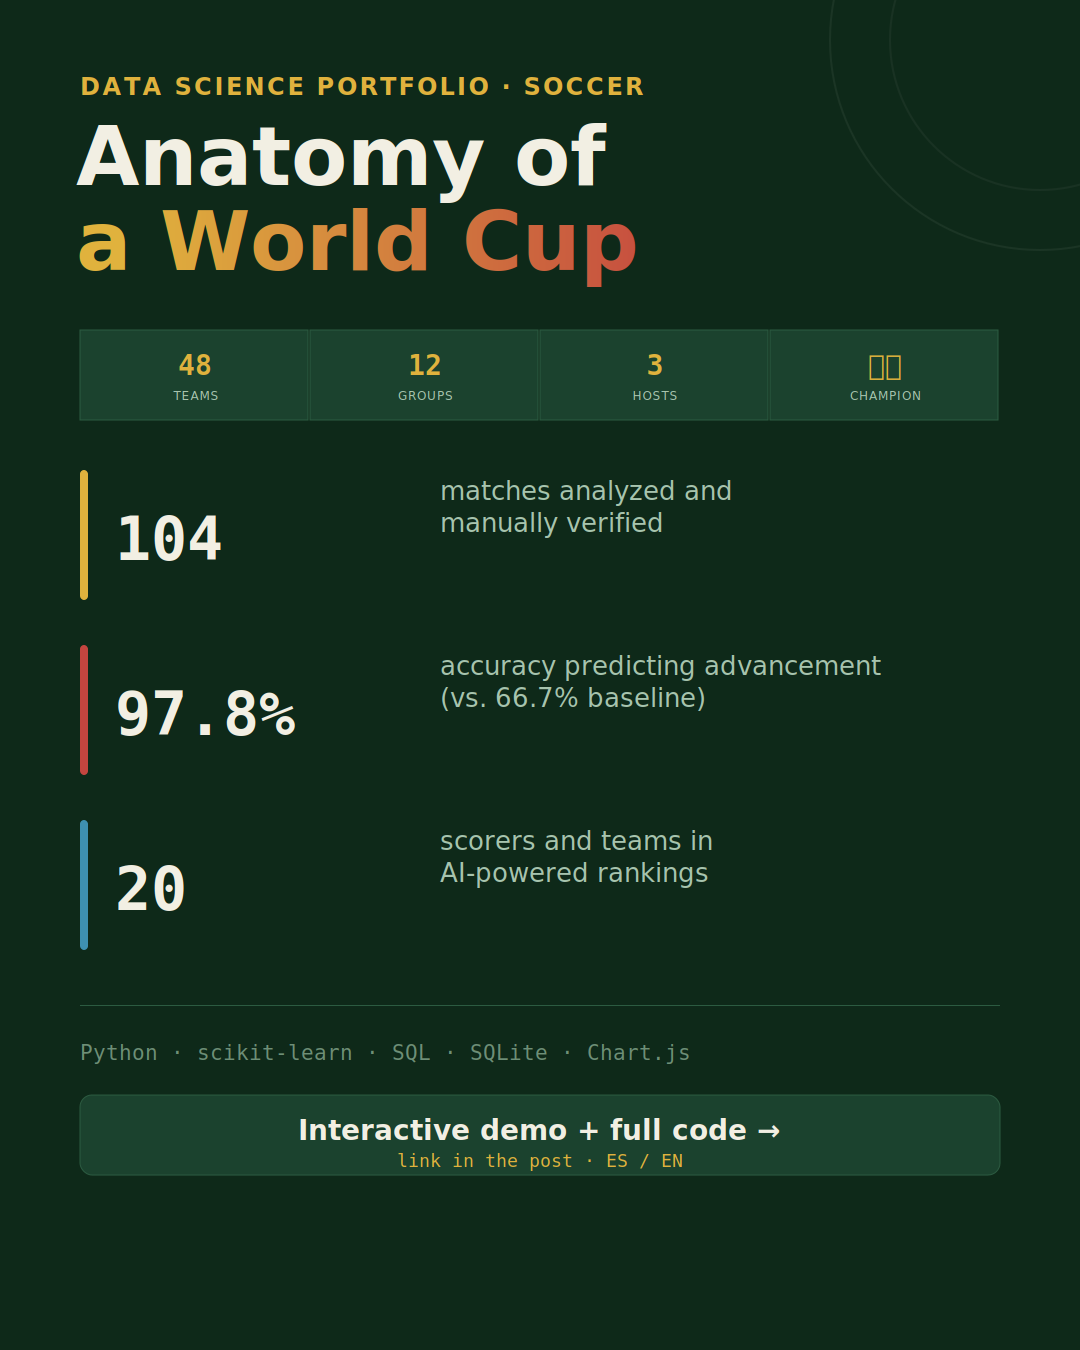
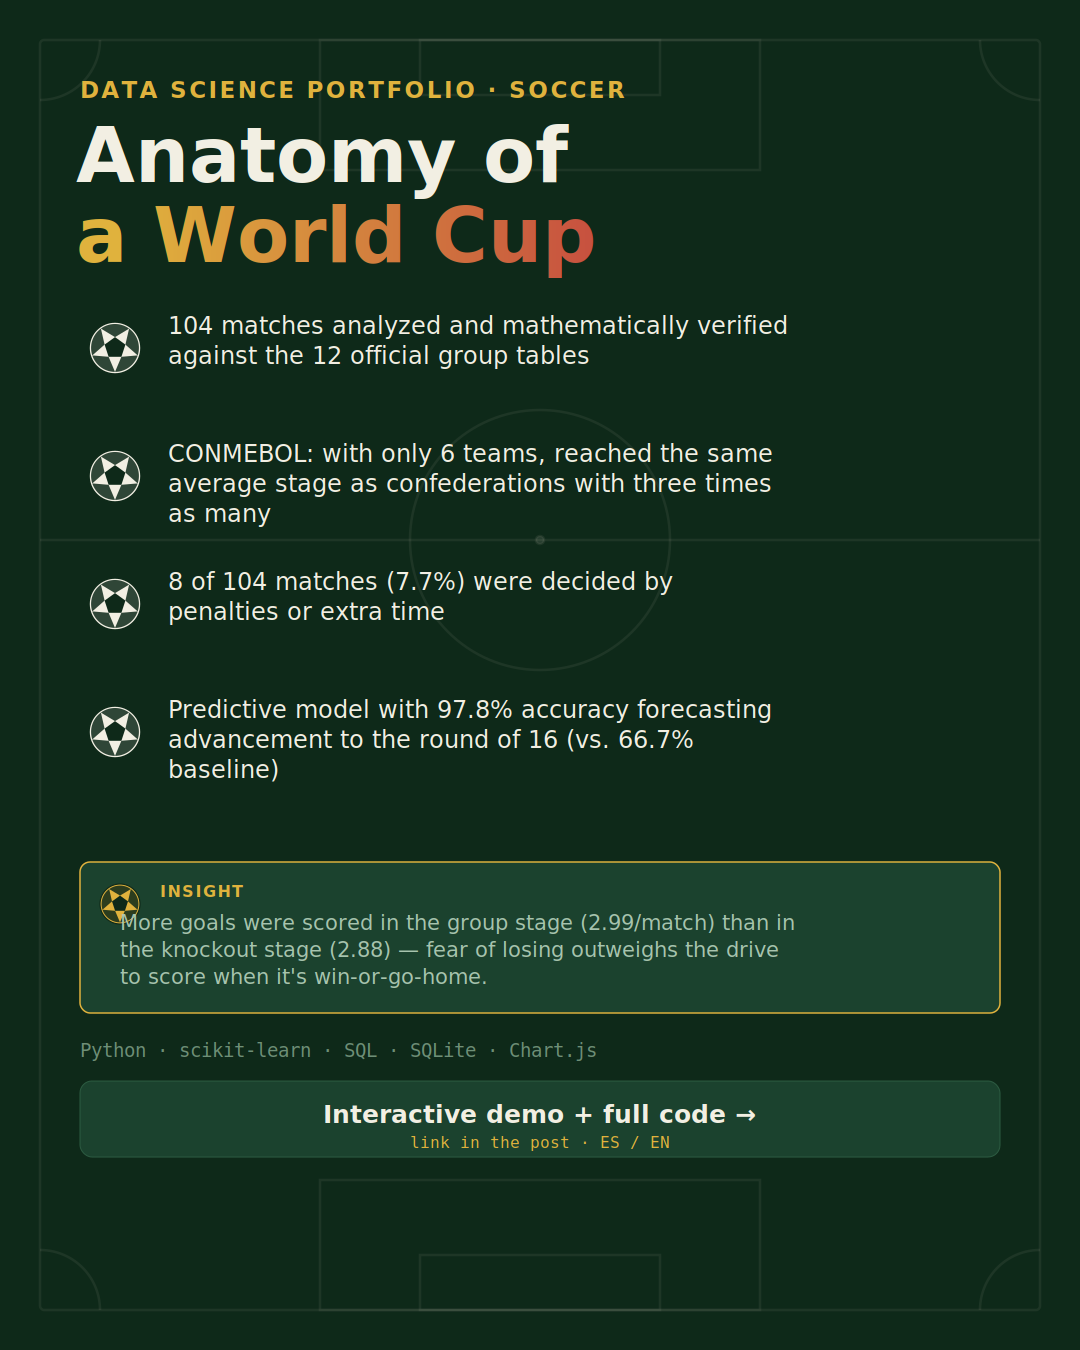
Rediseñar gráficos de LinkedIn: fondo de cancha, balones como viñetas, bullets de hallazgos + insight destacado

Changed region(s): [[0.0611, 0.0311, 0.9472, 0.8711]]

diff --git a/scripts/09_linkedin_card.py b/scripts/09_linkedin_card.py
@@ -1,8 +1,13 @@
 """
-Genera un grafico de resumen (1080x1350, formato 4:5 vertical) en ES y EN,
-con la identidad visual del dashboard del Mundial (cancha nocturna + dorado).
+Grafico de resumen para LinkedIn v2 — con tematica de futbol mas fuerte:
+- Fondo con lineas de cancha (circulo central, banda de medio campo, areas)
+- Balones de futbol (dibujados en SVG, no emoji) como vinetas de cada bullet
+- Bullets con los hallazgos reales del analisis + un insight destacado
 """
 import cairosvg
+import os
+import math
+import textwrap
 
 P = {
     "bg": "#0e2919", "bg2": "#153524", "card": "#1b422e", "border": "#2c5b41",
@@ -10,30 +15,81 @@ P = {
     "gold": "#E0B23D", "red": "#C4453F", "blue": "#3E90B0", "violet": "#9B7FC4", "lime": "#9BC24A",
 }
 
+def soccer_ball(cx, cy, r, fill="#F2EFE3", accent="#0e2919"):
+    pent_r = r * 0.42
+    pent_pts = []
+    for i in range(5):
+        ang = math.radians(-90 + i * 72)
+        pent_pts.append((cx + pent_r * math.cos(ang), cy + pent_r * math.sin(ang)))
+    pent_path = "M" + " L".join(f"{x:.1f},{y:.1f}" for x, y in pent_pts) + " Z"
+
+    wedges = ""
+    for i in range(5):
+        a1 = math.radians(-90 + i * 72 - 36)
+        a2 = math.radians(-90 + i * 72 + 36)
+        p1 = pent_pts[i]
+        outer1 = (cx + r * 0.92 * math.cos(a1), cy + r * 0.92 * math.sin(a1))
+        outer2 = (cx + r * 0.92 * math.cos(a2), cy + r * 0.92 * math.sin(a2))
+        wedges += (f'<path d="M{p1[0]:.1f},{p1[1]:.1f} L{outer1[0]:.1f},{outer1[1]:.1f} '
+                   f'A{r*0.92:.1f},{r*0.92:.1f} 0 0,1 {outer2[0]:.1f},{outer2[1]:.1f} Z" '
+                   f'fill="{accent}" opacity="0.85"/>')
+
+    return f'''
+<circle cx="{cx}" cy="{cy}" r="{r}" fill="{fill}"/>
+{wedges}
+<path d="{pent_path}" fill="{accent}"/>
+<circle cx="{cx}" cy="{cy}" r="{r}" fill="none" stroke="{accent}" stroke-width="{r*0.06}"/>
+'''
+
+def pitch_background(W, H):
+    mid_y = H * 0.40
+    return f'''
+<g stroke="rgba(242,239,227,0.07)" stroke-width="2.5" fill="none">
+  <rect x="40" y="40" width="{W-80}" height="{H-80}" rx="4"/>
+  <line x1="40" y1="{mid_y}" x2="{W-40}" y2="{mid_y}"/>
+  <circle cx="{W/2}" cy="{mid_y}" r="130"/>
+  <circle cx="{W/2}" cy="{mid_y}" r="4" fill="rgba(242,239,227,0.10)"/>
+  <rect x="{W/2-220}" y="40" width="440" height="130"/>
+  <rect x="{W/2-120}" y="40" width="240" height="55"/>
+  <rect x="{W/2-220}" y="{H-170}" width="440" height="130"/>
+  <rect x="{W/2-120}" y="{H-95}" width="240" height="55"/>
+  <path d="M 40 100 A 60 60 0 0 0 100 40"/>
+  <path d="M {W-100} 40 A 60 60 0 0 0 {W-40} 100"/>
+  <path d="M 40 {H-100} A 60 60 0 0 1 100 {H-40}"/>
+  <path d="M {W-100} {H-40} A 60 60 0 0 1 {W-40} {H-100}"/>
+</g>
+'''
+
 def build_svg(lang):
     if lang == "es":
         title1, title2 = "Radiografía", "de un Mundial"
         subtitle = "PORTAFOLIO DE DATA SCIENCE · FÚTBOL"
-        stats = [
-            ("104", "partidos analizados y\nverificados manualmente"),
-            ("97.8%", "accuracy prediciendo avance\n(vs. 66.7% del azar)"),
-            ("20", "goleadores y equipos en\nrankings con IA"),
+        bullets = [
+            "104 partidos analizados y verificados matemáticamente contra las 12 tablas oficiales de grupo",
+            "CONMEBOL: con solo 6 selecciones, alcanzó en promedio la misma etapa que confederaciones con el triple de equipos",
+            "8 de 104 partidos (7.7%) se definieron por penales o tiempo extra",
+            "Modelo predictivo con 97.8% de accuracy anticipando el avance a octavos (vs. 66.7% del azar)",
         ]
+        insight_label = "INSIGHT"
+        insight_text = "Se anotaron más goles en fase de grupos (2.99/partido) que en eliminación directa (2.88) — el miedo a perder pesa más que las ganas de anotar cuando es todo o nada."
         cta = "Demo interactivo + código completo →"
         cta2 = "link en el post · ES / EN"
     else:
         title1, title2 = "Anatomy of", "a World Cup"
         subtitle = "DATA SCIENCE PORTFOLIO · SOCCER"
-        stats = [
-            ("104", "matches analyzed and\nmanually verified"),
-            ("97.8%", "accuracy predicting advancement\n(vs. 66.7% baseline)"),
-            ("20", "scorers and teams in\nAI-powered rankings"),
+        bullets = [
+            "104 matches analyzed and mathematically verified against the 12 official group tables",
+            "CONMEBOL: with only 6 teams, reached the same average stage as confederations with three times as many",
+            "8 of 104 matches (7.7%) were decided by penalties or extra time",
+            "Predictive model with 97.8% accuracy forecasting advancement to the round of 16 (vs. 66.7% baseline)",
         ]
+        insight_label = "INSIGHT"
+        insight_text = "More goals were scored in the group stage (2.99/match) than in the knockout stage (2.88) — fear of losing outweighs the drive to score when it's win-or-go-home."
         cta = "Interactive demo + full code →"
         cta2 = "link in the post · ES / EN"
 
     W, H = 1080, 1350
-    svg = f'''<svg viewBox="0 0 {W} {H}" xmlns="http://www.w3.org/2000/svg">
+    svg = f'''<svg viewBox="0 0 {W} {H}" xmlns="http://www.w3.org/2000/svg" font-family="DejaVu Sans">
 <defs>
   <linearGradient id="titleGrad" x1="0%" y1="0%" x2="100%" y2="0%">
     <stop offset="0%" stop-color="{P['gold']}"/>
@@ -41,64 +97,50 @@ def build_svg(lang):
   </linearGradient>
 </defs>
 <rect width="{W}" height="{H}" fill="{P['bg']}"/>
+{pitch_background(W, H)}
 
-<!-- pitch arc motif (mismo elemento del dashboard) -->
-<circle cx="{W-40}" cy="40" r="210" fill="none" stroke="rgba(242,239,227,0.06)" stroke-width="2"/>
-<circle cx="{W-40}" cy="40" r="150" fill="none" stroke="rgba(242,239,227,0.05)" stroke-width="2"/>
-
-<text x="80" y="95" font-family="DejaVu Sans" font-size="24" font-weight="bold" letter-spacing="2.5" fill="{P['gold']}">{subtitle}</text>
-
-<text x="76" y="185" font-family="DejaVu Sans" font-size="82" font-weight="bold" fill="{P['text']}">{title1}</text>
-<text x="76" y="270" font-family="DejaVu Sans" font-size="82" font-weight="bold" fill="url(#titleGrad)">{title2}</text>
-
-<!-- scoreboard strip, como el hero del dashboard -->
-<g transform="translate(80,330)">
-'''
-    cell_w = (W - 160) / 4
-    cell_labels = [("48", "TEAMS" if lang == "en" else "EQUIPOS"), ("12", "GROUPS" if lang == "en" else "GRUPOS"),
-                   ("3", "HOSTS" if lang == "en" else "SEDES"), ("🇪🇸", "CHAMPION" if lang == "en" else "CAMPEÓN")]
-    for i, (num, lbl) in enumerate(cell_labels):
-        x = i * cell_w
-        svg += f'''
-  <rect x="{x}" y="0" width="{cell_w-2}" height="90" fill="{P['card']}" stroke="{P['border']}"/>
-  <text x="{x+cell_w/2}" y="45" font-family="DejaVu Sans Mono" font-size="28" font-weight="bold" fill="{P['gold']}" text-anchor="middle">{num}</text>
-  <text x="{x+cell_w/2}" y="70" font-family="DejaVu Sans" font-size="12" fill="{P['text2']}" text-anchor="middle" letter-spacing="1">{lbl}</text>
-'''
-    svg += "</g>\n"
-
-    y0 = 470
-    block_h = 175
-    for i, (num, label) in enumerate(stats):
-        by = y0 + i * block_h
-        color = [P['gold'], P['red'], P['blue']][i]
-        lines = label.split("\n")
-        label_svg = "".join(
-            f'<tspan x="440" dy="{0 if j==0 else 32}">{ln}</tspan>' for j, ln in enumerate(lines)
-        )
-        svg += f'''
-<rect x="80" y="{by}" width="8" height="130" rx="4" fill="{color}"/>
-<text x="115" y="{by+90}" font-family="DejaVu Sans Mono" font-size="60" font-weight="bold" fill="{P['text']}">{num}</text>
-<text x="440" y="{by+30}" font-family="DejaVu Sans" font-size="26" fill="{P['text2']}">{label_svg}</text>
+<text x="80" y="98" font-size="23" font-weight="bold" letter-spacing="2.2" fill="{P['gold']}">{subtitle}</text>
+<text x="76" y="182" font-size="76" font-weight="bold" fill="{P['text']}">{title1}</text>
+<text x="76" y="262" font-size="76" font-weight="bold" fill="url(#titleGrad)">{title2}</text>
 '''
 
-    footer_y = y0 + len(stats) * block_h + 10
+    by0 = 340
+    row_h = 128
+    for i, bullet in enumerate(bullets):
+        by = by0 + i * row_h
+        svg += soccer_ball(115, by + 8, 26)
+        wrapped = textwrap.wrap(bullet, width=48)
+        lines_svg = "".join(f'<tspan x="168" dy="{0 if j==0 else 30}">{ln}</tspan>' for j, ln in enumerate(wrapped))
+        svg += f'<text x="168" y="{by-6}" font-size="24" fill="{P["text"]}">{lines_svg}</text>\n'
+
+    insight_y = by0 + len(bullets) * row_h + 10
+    insight_wrapped = textwrap.wrap(insight_text, width=62)
+    insight_h = 70 + len(insight_wrapped) * 27
+    insight_lines_svg = "".join(
+        f'<tspan x="120" dy="{0 if j==0 else 27}">{ln}</tspan>' for j, ln in enumerate(insight_wrapped))
     svg += f'''
-<rect x="80" y="{footer_y}" width="{W-160}" height="1" fill="{P['border']}"/>
-<text x="80" y="{footer_y+55}" font-family="DejaVu Sans Mono" font-size="21" fill="{P['muted']}">Python · scikit-learn · SQL · SQLite · Chart.js</text>
+<rect x="80" y="{insight_y}" width="{W-160}" height="{insight_h}" rx="10" fill="{P['card']}" stroke="{P['gold']}" stroke-width="1.5"/>
+{soccer_ball(120, insight_y+42, 20, fill=P['gold'], accent=P['bg'])}
+<text x="160" y="{insight_y+35}" font-size="16" font-weight="bold" letter-spacing="1.5" fill="{P['gold']}">{insight_label}</text>
+<text x="120" y="{insight_y+68}" font-size="21" fill="{P['text2']}">{insight_lines_svg}</text>
+'''
 
-<rect x="80" y="{footer_y+90}" width="{W-160}" height="80" rx="12" fill="{P['card']}" stroke="{P['border']}"/>
-<text x="{W/2}" y="{footer_y+135}" font-family="DejaVu Sans" font-size="28" font-weight="bold" fill="{P['text']}" text-anchor="middle">{cta}</text>
-<text x="{W/2}" y="{footer_y+162}" font-family="DejaVu Sans Mono" font-size="18" fill="{P['gold']}" text-anchor="middle">{cta2}</text>
+    footer_y = insight_y + insight_h + 26
+    svg += f'''
+<text x="80" y="{footer_y+18}" font-family="DejaVu Sans Mono" font-size="19" fill="{P['muted']}">Python · scikit-learn · SQL · SQLite · Chart.js</text>
+<rect x="80" y="{footer_y+42}" width="{W-160}" height="76" rx="12" fill="{P['card']}" stroke="{P['border']}"/>
+<text x="{W/2}" y="{footer_y+84}" font-size="25" font-weight="bold" fill="{P['text']}" text-anchor="middle">{cta}</text>
+<text x="{W/2}" y="{footer_y+109}" font-family="DejaVu Sans Mono" font-size="16" fill="{P['gold']}" text-anchor="middle">{cta2}</text>
 </svg>'''
-    return svg
+    return svg, footer_y + 42 + 76
 
+OUT = "/home/claude/worldcup_portfolio/assets_linkedin"
+os.makedirs(OUT, exist_ok=True)
 for lang in ["es", "en"]:
-    svg_code = build_svg(lang)
-    svg_path = f"/home/claude/worldcup_portfolio/assets_linkedin/linkedin_card_{lang}.svg"
-    png_path = f"/home/claude/worldcup_portfolio/assets_linkedin/linkedin_card_{lang}.png"
-    import os
-    os.makedirs("/home/claude/worldcup_portfolio/assets_linkedin", exist_ok=True)
-    with open(svg_path, "w", encoding="utf-8") as f:
-        f.write(svg_code)
+    svg_code, bottom = build_svg(lang)
+    print(f"{lang}: contenido termina en y={bottom} (canvas=1350)")
+    svg_path = f"{OUT}/linkedin_card_{lang}.svg"
+    png_path = f"{OUT}/linkedin_card_{lang}.png"
+    open(svg_path, "w", encoding="utf-8").write(svg_code)
     cairosvg.svg2png(url=svg_path, write_to=png_path, output_width=1080, output_height=1350)
     print(f"Generado: {png_path}")
